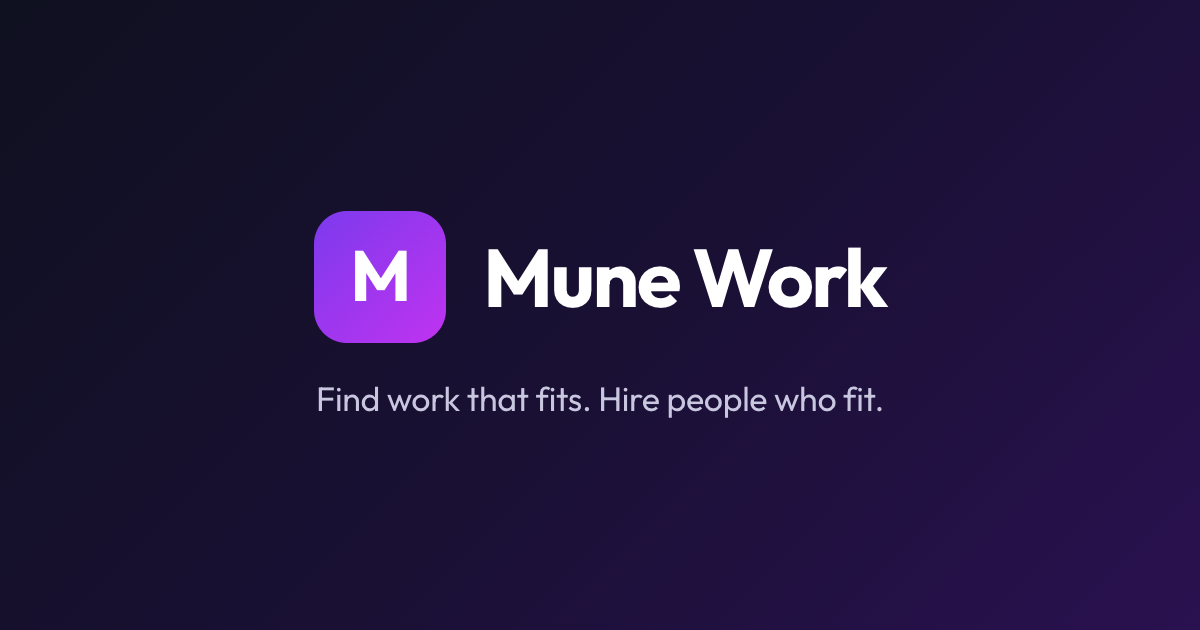
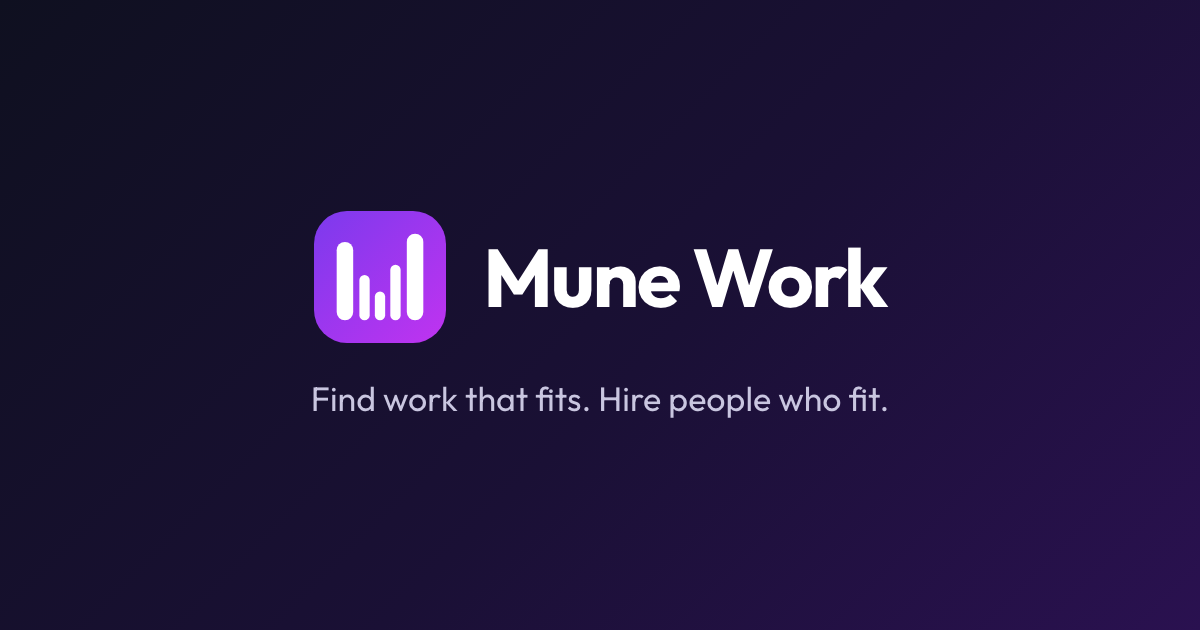
feat(brand): replace the letter mark with the Rising M
Google's OAuth branding review rejected the previous logo as not uniquely
identifying the brand — a bare letter on a gradient square reads as a
generic template.

The mark is now five rising bars whose tops trace an M: the outer two are
wider and tallest so they read as the stems, the inner three dip to carve
the V. It doubles as a growth chart, which suits a jobs product, and it is
built from vector rects rather than live text so it rasterizes identically
on platforms without Outfit.

Regenerates every export at its true pixel size, and moves the generator
into the repo as scripts/brandgen.cjs (.cjs because package.json sets
type: module).

Changed region(s): [[0.2467, 0.6032, 0.4933, 0.6635], [0.5242, 0.6032, 0.74, 0.6635], [0.2775, 0.3619, 0.37, 0.5127]]

diff --git a/public/brand/README.md b/public/brand/README.md
@@ -1,12 +1,18 @@
 # Mune Work brand assets
 
 Generated from the mark in `public/icon.svg` — purple gradient tile
-(`#7C3AED` → `#C033F0`, 135°) with a white Outfit "M".
+(`#7C3AED` → `#C033F0`, 135°) holding five white rising bars whose tops trace
+an M. The outer two are wider and tallest so they read as the letter's stems;
+the inner three dip to carve the V between them.
 
-The source SVG sets the "M" as live text, so anything that rasterizes it
-without the Outfit webfont substitutes a different typeface and the logo
-changes shape. These PNGs have the real font baked in — **upload these, not
-the SVG**, to any third party.
+The mark replaced a plain Outfit "M" for two reasons. Google's OAuth branding
+review rejected the letter tile as not uniquely identifying the brand, and
+setting the glyph as live text meant any platform lacking Outfit substituted a
+different letterform. The bars are vector rects, so they rasterize identically
+everywhere.
+
+The wordmark exports still use Outfit for the "Mune Work" text, so **upload
+these PNGs, not the SVG**, to any third party.
 
 ## Which file goes where
 
@@ -32,12 +38,12 @@ standard rounded tile would lose its corners.
 ## Regenerating
 
 ```
-node /tmp/brandgen.js <output-dir>
+node scripts/brandgen.cjs public/brand
 ```
 
-Renders through headless Chrome so the Outfit webfont loads. Each size is
-rendered at its true pixel dimensions rather than downscaled from one large
-export, which keeps the small favicons legible.
+Drives Chrome's headless `--screenshot` so the Outfit webfont loads for the
+wordmarks. Each size is rendered at its true pixel dimensions rather than
+downscaled from one large export, which keeps the small favicons legible.
 
 ## Colours
 
